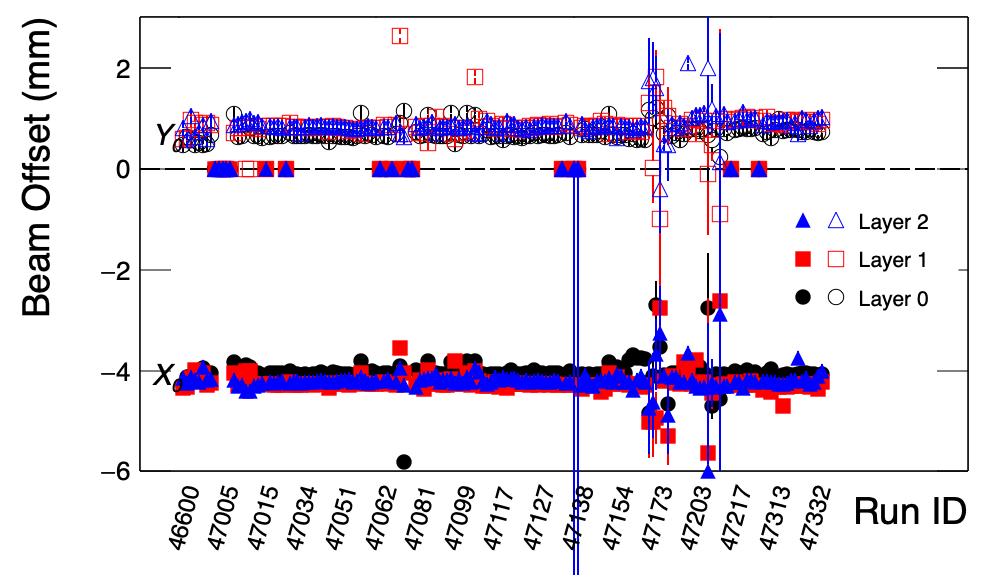
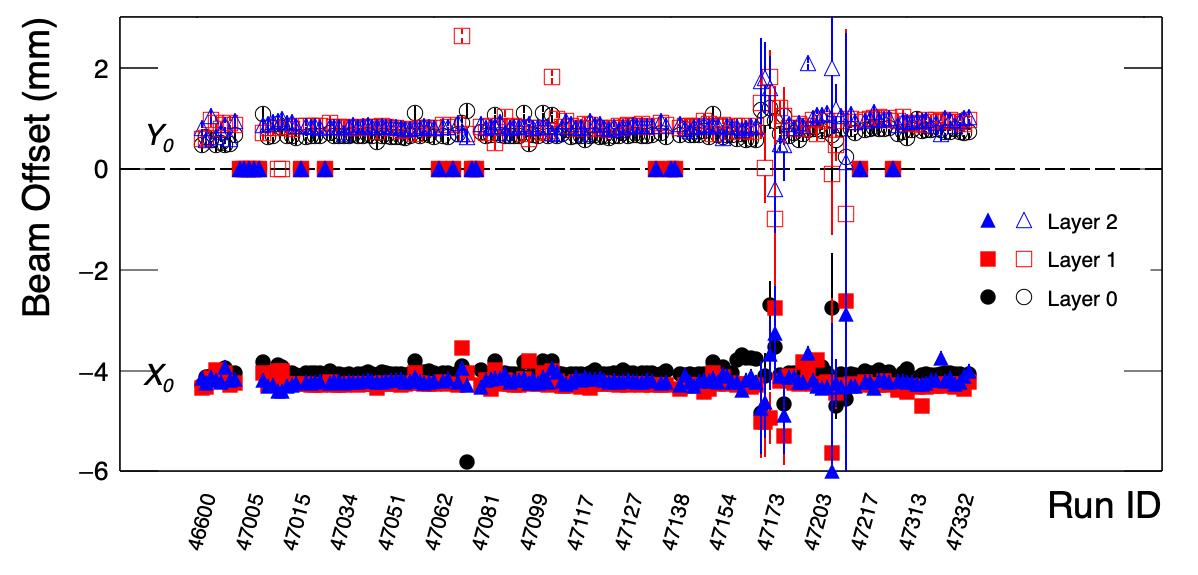
plotting style update for BL vs. run

diff --git a/2024/BeamLine/drawBLvsRun.C b/2024/BeamLine/drawBLvsRun.C
@@ -4,7 +4,7 @@
 void drawBLvsRun()
 {
   style();
-  const Int_t NMAX = 200;
+  const Int_t NMAX = 10000;
   const Int_t NL = 3;
   Int_t Run[NMAX];
   Double_t index[NMAX], runId[NMAX];
@@ -55,12 +55,12 @@ void drawBLvsRun()
     gr_phi0[i]->SetName("gr_phi0");
   }
   
-  TCanvas *c1 = new TCanvas("c1","",1000,600);
-  c1->SetLeftMargin(0.14);
+  TCanvas *c1 = new TCanvas("c1","",1200,600);
+  c1->SetLeftMargin(0.1);
   c1->Draw();
   
-  double x1 = -10;
-  double x2 = NMAX;
+  double x1 = -N*0.1;
+  double x2 = N*1.25;
   double y1 = -6.;
   double y2 = 3.;
   TH1D *h0 = new TH1D("h0","",1,x1,x2);
@@ -68,9 +68,9 @@ void drawBLvsRun()
   h0->SetMinimum(y1);
   h0->GetXaxis()->SetTickLength(0.001);
   h0->GetXaxis()->SetLabelOffset(999.);
-  h0->GetXaxis()->SetTitleOffset(0.6);
+  h0->GetXaxis()->SetTitleOffset(0.5);
   h0->GetXaxis()->SetTitle("Run ID");
-  h0->GetYaxis()->SetTitleOffset(0.9);
+  h0->GetYaxis()->SetTitleOffset(0.6);
   h0->GetYaxis()->SetTitle("Beam Offset (mm)");
   h0->Draw("c");
 
@@ -93,19 +93,19 @@ void drawBLvsRun()
   }
 
   for(int i=0;i<N;i++) {
-    if(i%10==0) drawText(index[i]-0.1, y1-1.6, Form("%d",Run[i]), 42, 0.045, 75);
+    if(i%10==0) drawText(index[i]-0.1, y1-1.6, Form("%d",Run[i]), 42, 0.04, 75);
   }
 
-  drawText(-7, x0[0][0], "X_{0}", 52, 0.055); 
-  drawText(-7, y0[0][0], "Y_{0}", 52, 0.055);
+  drawText(-N*0.07, x0[0][0], "X_{0}", 52, 0.055); 
+  drawText(-N*0.07, y0[0][0], "Y_{0}", 52, 0.055);
 
-  TLegend *leg1 = new TLegend(0.8, 0.45, 0.84, 0.65);
+  TLegend *leg1 = new TLegend(0.82, 0.45, 0.86, 0.65);
   leg1->SetLineColor(10);
   for(int i=NL-1;i>=0;i--) {
     leg1->AddEntry(gr_x0[i], " ", "p");
   }
   leg1->Draw();
-  TLegend *leg2 = new TLegend(0.82, 0.45, 0.96, 0.65);
+  TLegend *leg2 = new TLegend(0.84, 0.45, 0.96, 0.65);
   leg2->SetLineColor(10);
   leg2->SetTextSize(0.04);
   for(int i=NL-1;i>=0;i--) {
